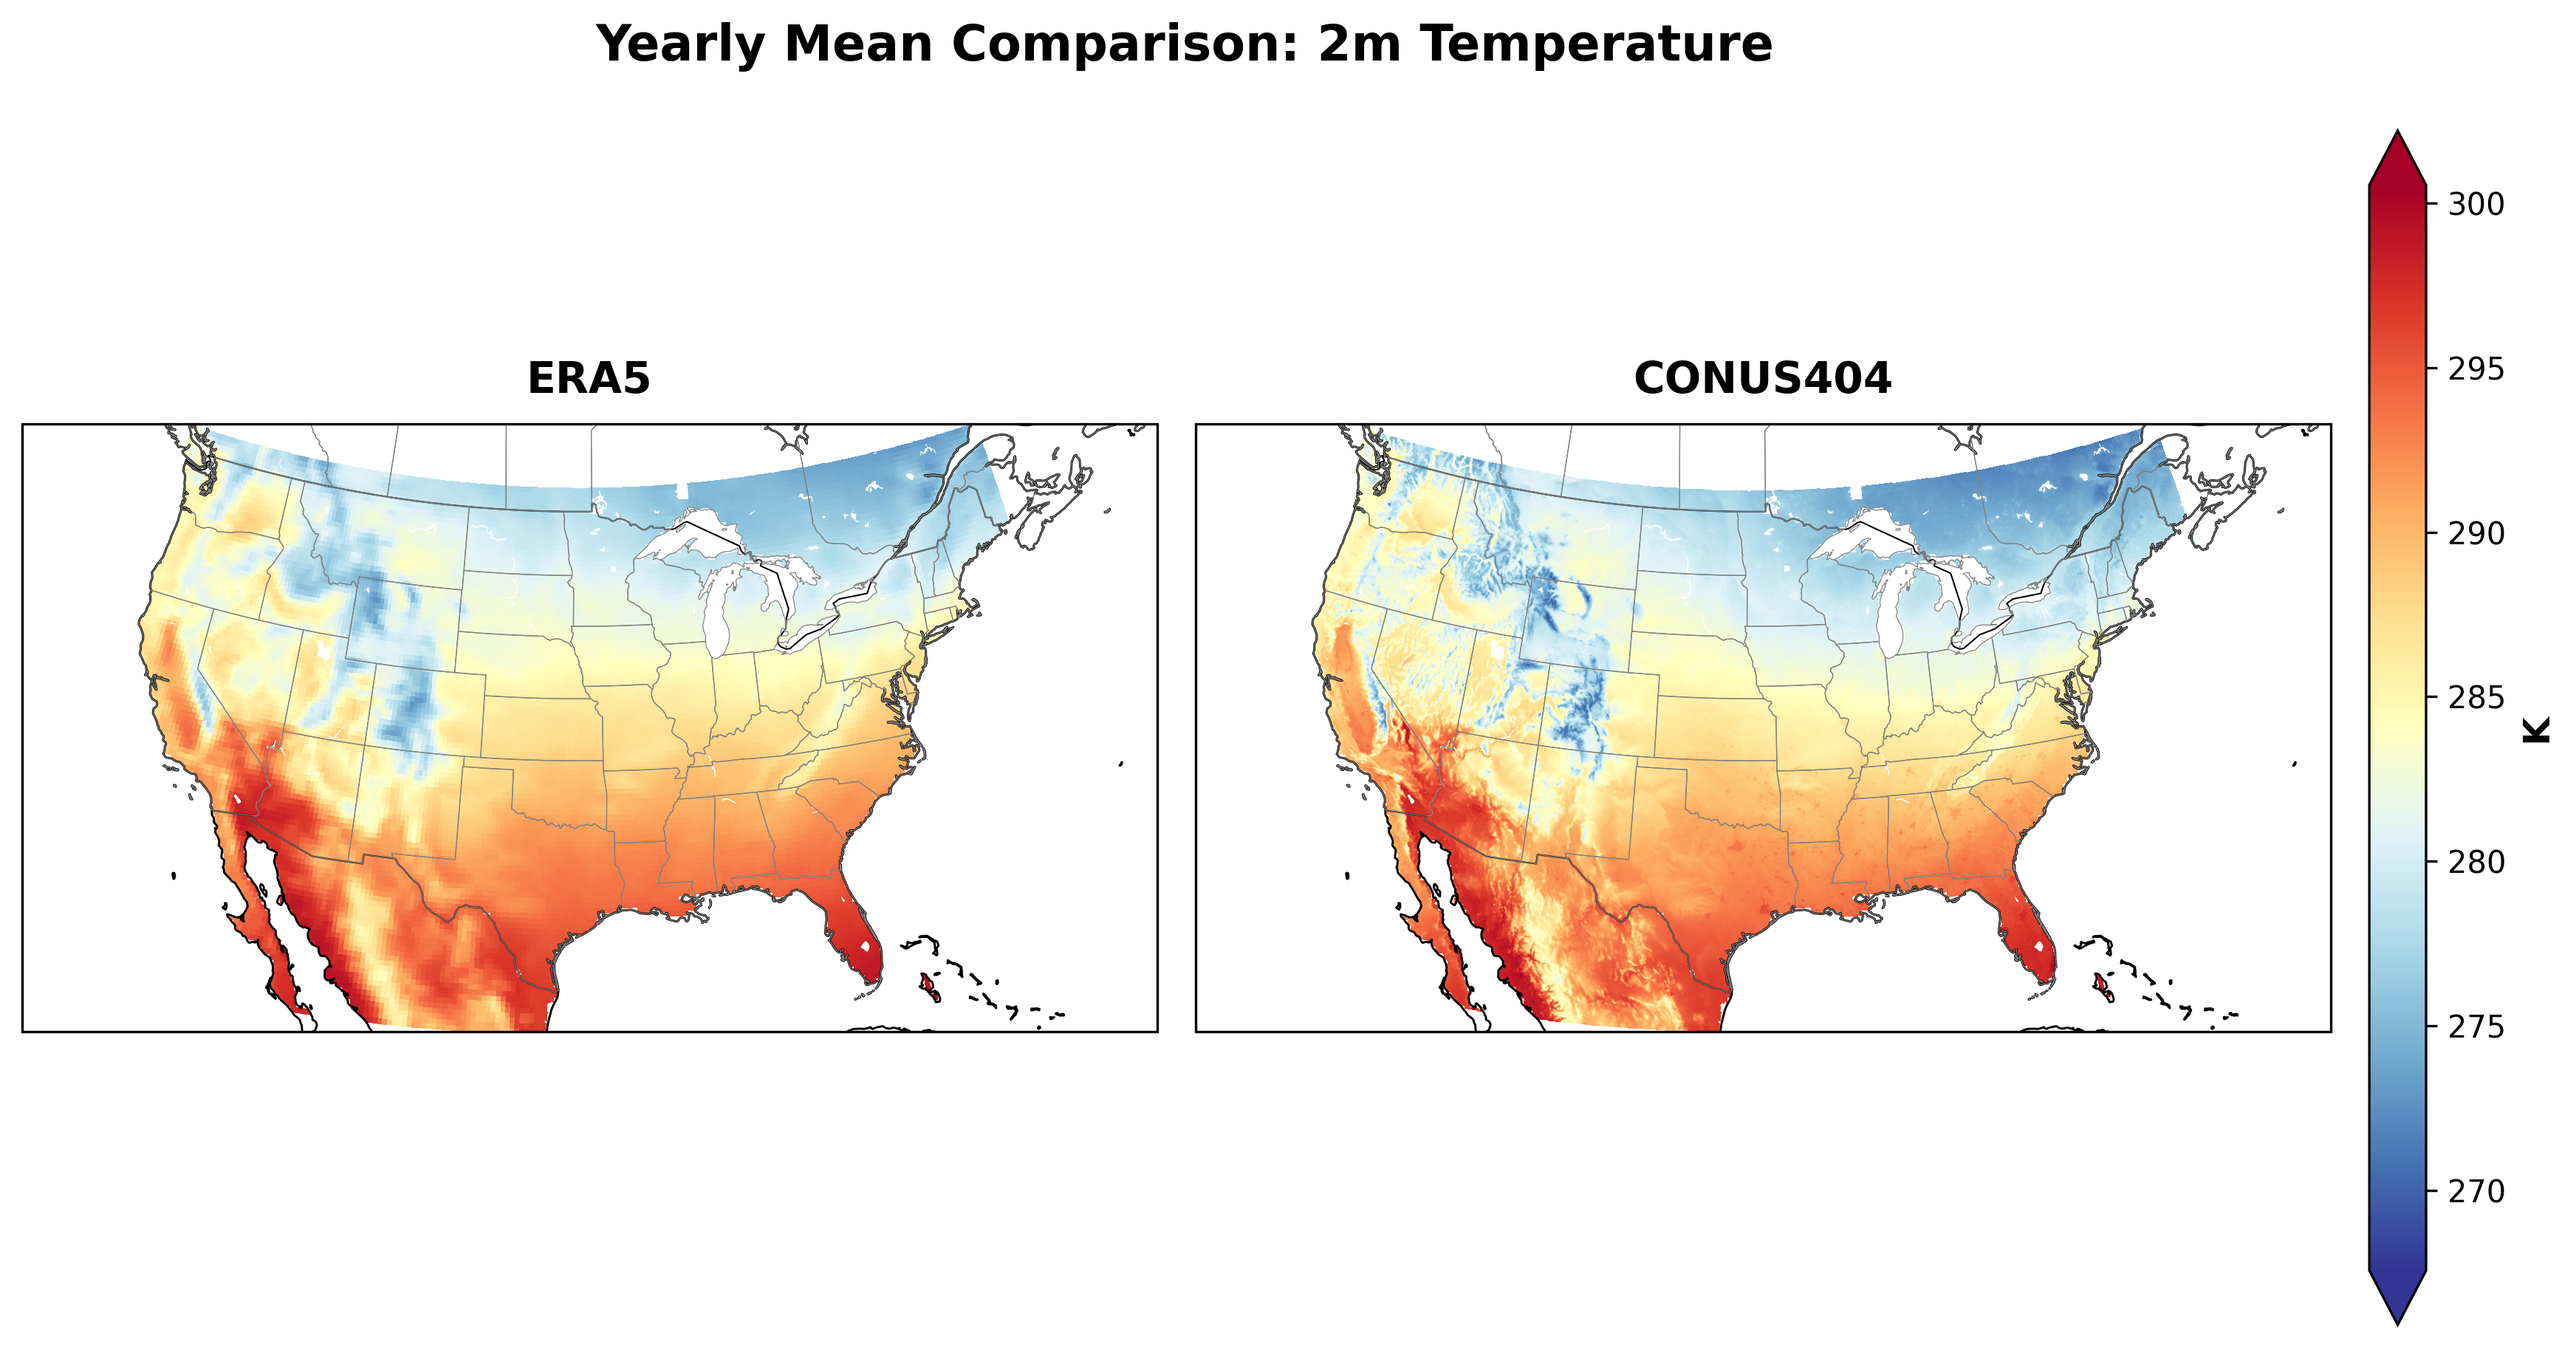
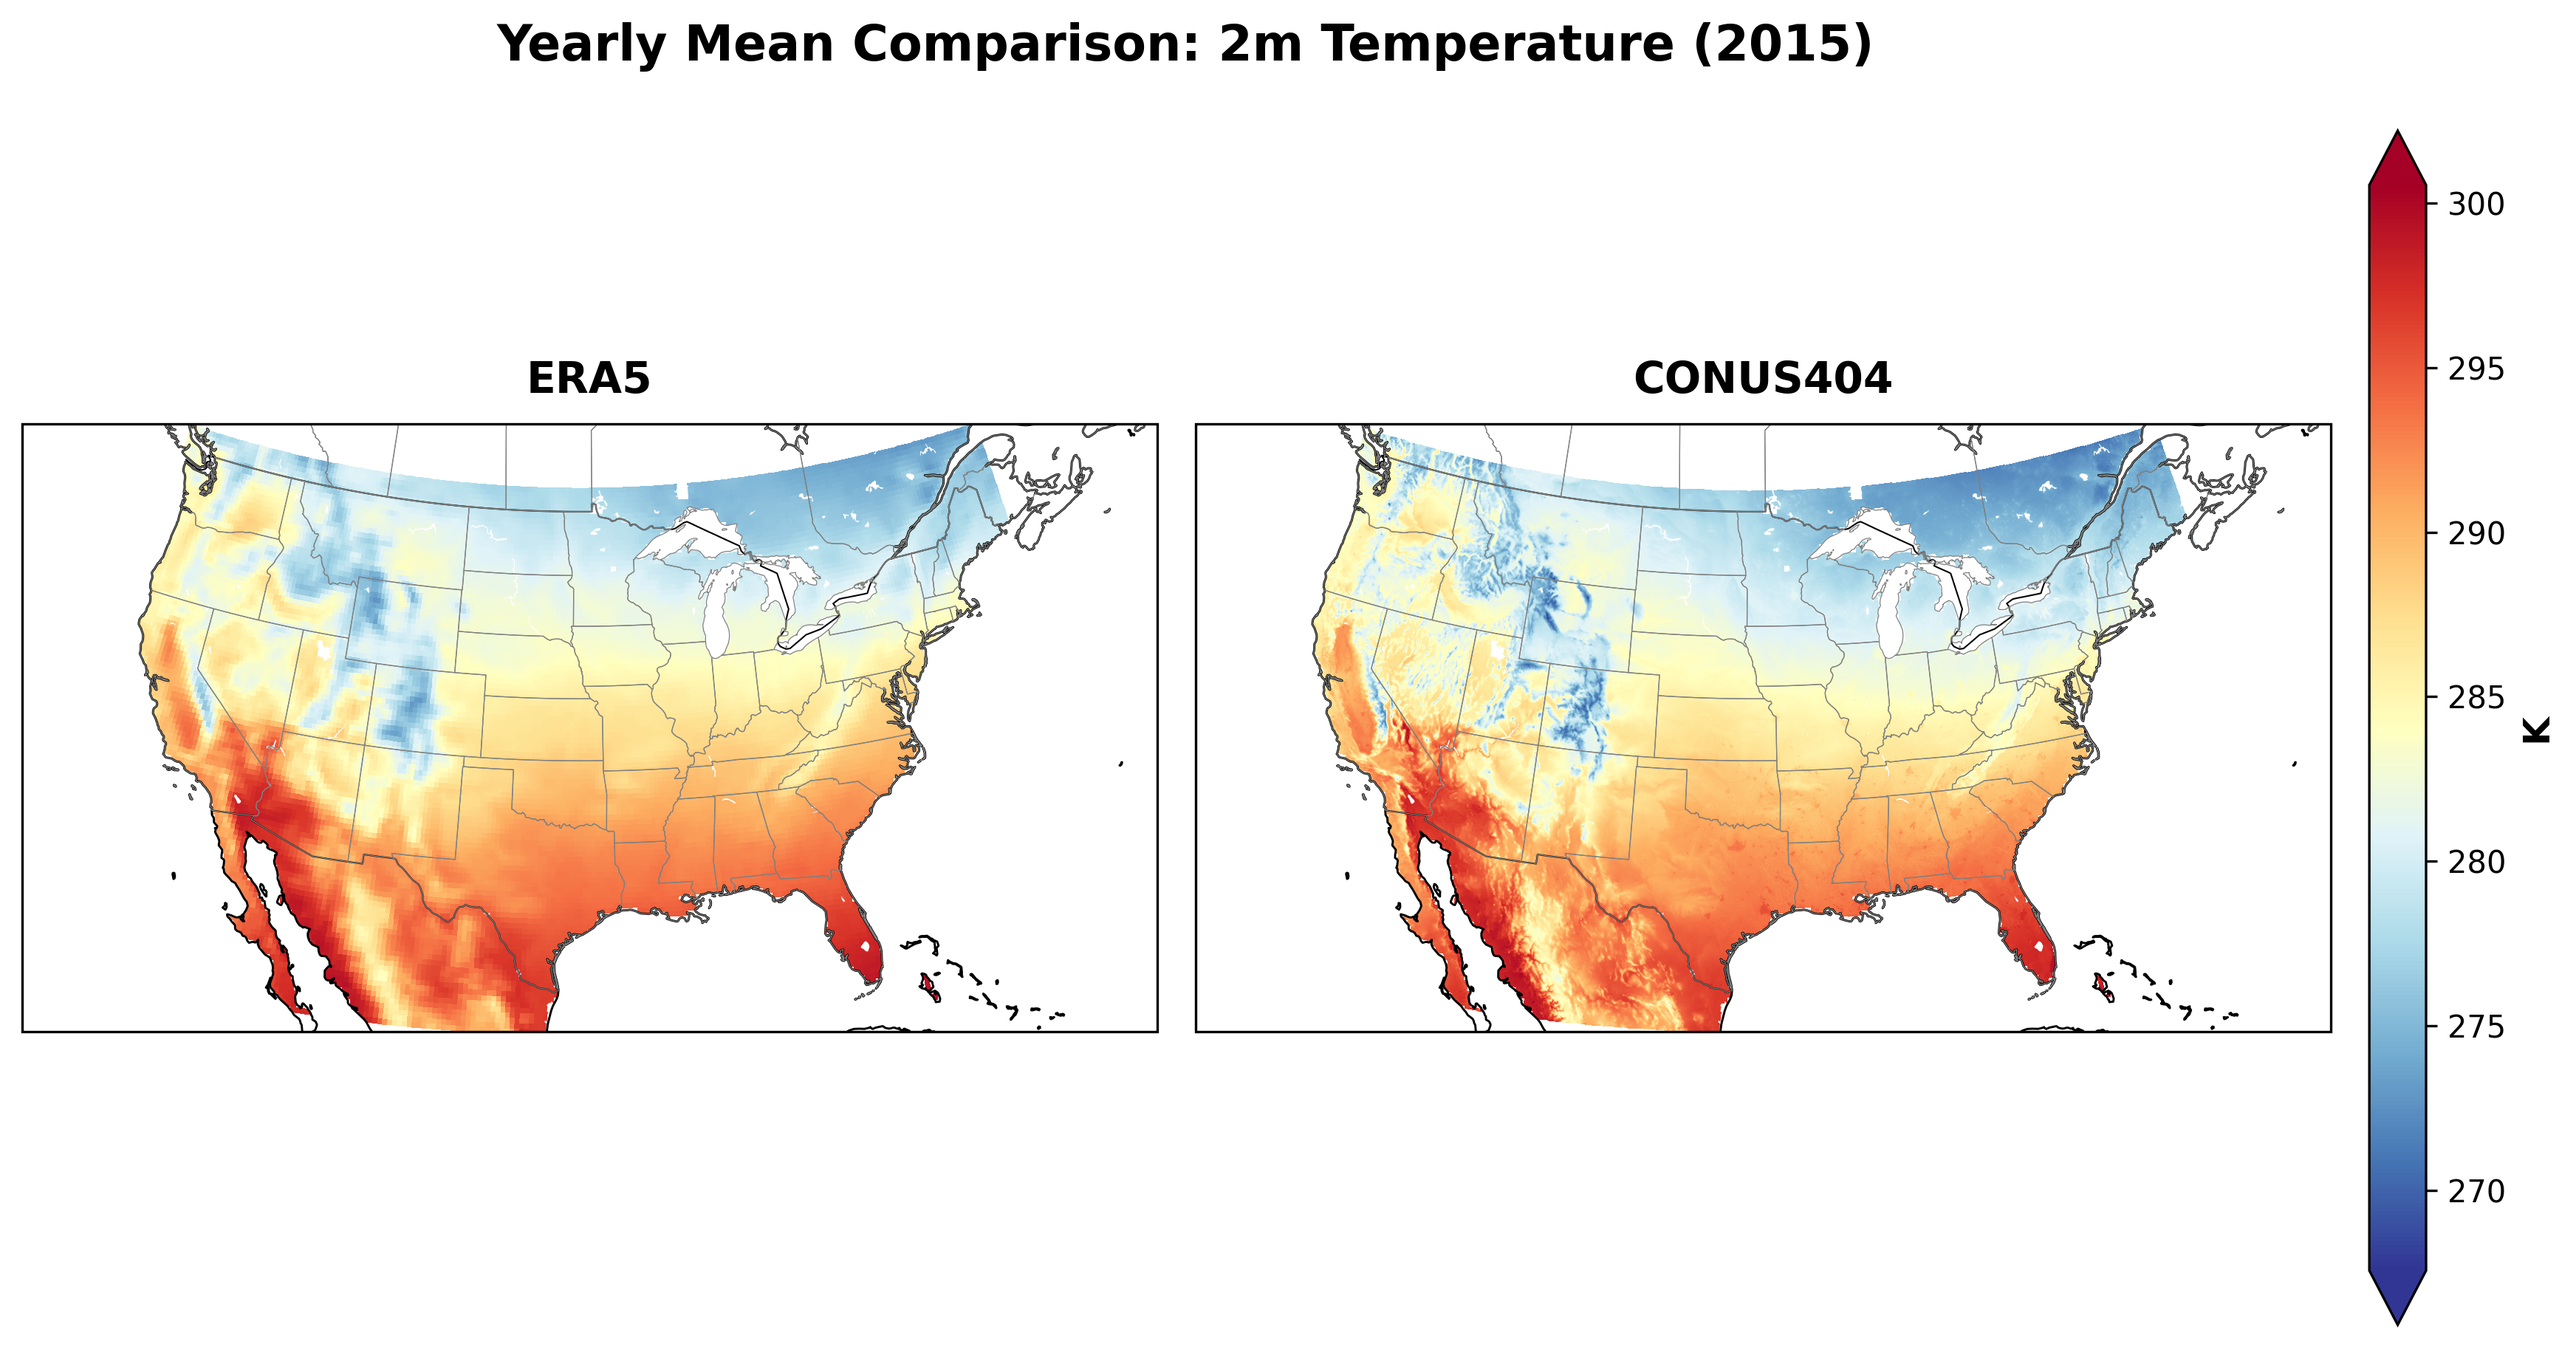
Add 2015 to plot titles for t2m ocean-masked plots
Updated analysis_script_ocean_masked.py to only process t2m for 2015,
and added year label to all 4 plot titles (heatmap, QQ, timeseries, boxplots).

Changed region(s): [[0.1875, 0.0, 0.7188, 0.0625]]

diff --git a/analysis_script_ocean_masked.py b/analysis_script_ocean_masked.py
@@ -33,17 +33,11 @@ logger = logging.getLogger(__name__)
 BASE_OUTPUT_DIR = 'plots'
 CONUS_BASE = "../../final_data/conus404_yearly_{year}.nc"
 ERA5_BASE = "../../../sduan/pipeline/data/processed/era5_{year}.nc"
-YEARS = range(1980, 2021)
+YEARS = [2015]
 
 # variable pairs: era5 (key) : conus404 (value)
 VARIABLE_PAIRS = {
     't2m': 'T2',
-    'd2m': 'TD2',
-    'sp': 'PSFC',
-    'u10': 'U10',
-    'v10': 'V10',
-    'lai': 'LAI',
-    'tp': 'PREC_ACC_NC',
 }
 
 # units for labeling
@@ -344,7 +338,7 @@ def compute_global_limits(era_seasonal_data, conus_seasonal_data):
 # plotting functions
 
 def plot_seasonal_boxplots(era_seasonal_data, conus_seasonal_data,
-                          era_var, output_path):
+                          era_var, output_path, year=None):
     logger.info(f"  generating seasonal box plots...")
 
     season_names = list(SEASONS.keys())
@@ -395,7 +389,8 @@ def plot_seasonal_boxplots(era_seasonal_data, conus_seasonal_data,
     ax.set_xticklabels(season_names, fontsize=12)
     ax.set_ylabel(f'{VARIABLE_NAMES.get(era_var, era_var)} ({VARIABLE_UNITS.get(era_var, "")})',
                   fontsize=13, fontweight='bold')
-    ax.set_title(f'Seasonal Comparison: {VARIABLE_NAMES.get(era_var, era_var)}',
+    year_str = f' ({year})' if year is not None else ''
+    ax.set_title(f'Seasonal Comparison: {VARIABLE_NAMES.get(era_var, era_var)}{year_str}',
                  fontsize=15, fontweight='bold', pad=15)
 
     ax.set_ylim(global_min - y_pad, global_max + y_pad)
@@ -410,7 +405,7 @@ def plot_seasonal_boxplots(era_seasonal_data, conus_seasonal_data,
     plt.close()
     logger.info(f"    saved: {output_path}")
 
-def plot_qq_plot(era_seasonal_data, conus_seasonal_data, era_var, output_path):
+def plot_qq_plot(era_seasonal_data, conus_seasonal_data, era_var, output_path, year=None):
     logger.info(f"  generating q-q plot...")
 
     era_all = []
@@ -456,7 +451,8 @@ def plot_qq_plot(era_seasonal_data, conus_seasonal_data, era_var, output_path):
                   fontsize=12, fontweight='bold')
     ax.set_ylabel(f'CONUS404 Quantiles ({VARIABLE_UNITS.get(era_var, "")})',
                   fontsize=12, fontweight='bold')
-    ax.set_title(f'Q-Q Plot: {VARIABLE_NAMES.get(era_var, era_var)}',
+    year_str = f' ({year})' if year is not None else ''
+    ax.set_title(f'Q-Q Plot: {VARIABLE_NAMES.get(era_var, era_var)}{year_str}',
                  fontsize=15, fontweight='bold', pad=15)
     ax.grid(True, alpha=0.3, linestyle='--')
     ax.legend(fontsize=11, loc='upper left', framealpha=0.9)
@@ -466,7 +462,7 @@ def plot_qq_plot(era_seasonal_data, conus_seasonal_data, era_var, output_path):
     plt.close()
     logger.info(f"    saved: {output_path}")
 
-def plot_yearly_timeseries(era_ds, conus_ds, era_var, conus_var, output_path):
+def plot_yearly_timeseries(era_ds, conus_ds, era_var, conus_var, output_path, year=None):
     logger.info(f"  generating yearly timeseries...")
 
     era_time_dim = 'valid_time' if 'valid_time' in era_ds else 'time'
@@ -511,7 +507,8 @@ def plot_yearly_timeseries(era_ds, conus_ds, era_var, conus_var, output_path):
     ax.set_xlabel('Date', fontsize=12, fontweight='bold')
     ax.set_ylabel(f'{VARIABLE_NAMES.get(era_var, era_var)} ({VARIABLE_UNITS.get(era_var, "")})',
                   fontsize=12, fontweight='bold')
-    ax.set_title(f'Yearly Time Series (Spatial Mean): {VARIABLE_NAMES.get(era_var, era_var)}',
+    year_str = f' ({year})' if year is not None else ''
+    ax.set_title(f'Yearly Time Series (Spatial Mean): {VARIABLE_NAMES.get(era_var, era_var)}{year_str}',
                  fontsize=15, fontweight='bold', pad=15)
     ax.grid(True, alpha=0.3, linestyle='--')
     ax.legend(loc='best', fontsize=12, framealpha=0.9)
@@ -525,7 +522,7 @@ def plot_yearly_timeseries(era_ds, conus_ds, era_var, conus_var, output_path):
     logger.info(f"    saved: {output_path}")
 
 def plot_side_by_side_heatmaps(era_yearly, conus_yearly, era_var, conus_var,
-                               era_ds, conus_ds, output_path):
+                               era_ds, conus_ds, output_path, year=None):
     logger.info(f"  generating side-by-side heatmaps...")
 
     lat_name, lon_name = get_coordinate_names(conus_ds)
@@ -581,7 +578,8 @@ def plot_side_by_side_heatmaps(era_yearly, conus_yearly, era_var, conus_var,
     cbar_right.set_label(f'{VARIABLE_UNITS.get(era_var, "")}',
                          fontsize=12, fontweight='bold')
 
-    fig.suptitle(f'Yearly Mean Comparison: {VARIABLE_NAMES.get(era_var, era_var)}',
+    year_str = f' ({year})' if year is not None else ''
+    fig.suptitle(f'Yearly Mean Comparison: {VARIABLE_NAMES.get(era_var, era_var)}{year_str}',
                  fontsize=16, fontweight='bold', y=0.95)
 
     plt.savefig(output_path, dpi=300, bbox_inches='tight')
@@ -590,7 +588,7 @@ def plot_side_by_side_heatmaps(era_yearly, conus_yearly, era_var, conus_var,
 
 # main processing
 
-def process_variable(era_ds, conus_ds, era_var, conus_var, output_dir):
+def process_variable(era_ds, conus_ds, era_var, conus_var, output_dir, year=None):
     logger.info(f"processing: {VARIABLE_NAMES.get(era_var, era_var)} ({era_var} vs {conus_var})")
 
     # check if variables exist in datasets
@@ -615,23 +613,27 @@ def process_variable(era_ds, conus_ds, era_var, conus_var, output_dir):
 
         plot_seasonal_boxplots(
             era_seasonal_data, conus_seasonal_data, era_var,
-            os.path.join(var_dir, f'{era_var}_seasonal_boxplots.png')
+            os.path.join(var_dir, f'{era_var}_seasonal_boxplots.png'),
+            year=year
         )
 
         plot_qq_plot(
             era_seasonal_data, conus_seasonal_data, era_var,
-            os.path.join(var_dir, f'{era_var}_qq_plot.png')
+            os.path.join(var_dir, f'{era_var}_qq_plot.png'),
+            year=year
         )
 
         plot_yearly_timeseries(
             era_ds, conus_ds, era_var, conus_var,
-            os.path.join(var_dir, f'{era_var}_yearly_timeseries.png')
+            os.path.join(var_dir, f'{era_var}_yearly_timeseries.png'),
+            year=year
         )
 
         plot_side_by_side_heatmaps(
             era_yearly, conus_yearly, era_var, conus_var,
             era_ds, conus_ds,
-            os.path.join(var_dir, f'{era_var}_heatmap_comparison.png')
+            os.path.join(var_dir, f'{era_var}_heatmap_comparison.png'),
+            year=year
         )
 
         logger.info(f"completed processing for {era_var}")
@@ -666,7 +668,7 @@ def process_year(year):
 
     for era_var, conus_var in VARIABLE_PAIRS.items():
         try:
-            process_variable(era_ds, conus_ds, era_var, conus_var, year_output_dir)
+            process_variable(era_ds, conus_ds, era_var, conus_var, year_output_dir, year=year)
         except Exception as e:
             logger.error(f"failed to process {era_var} for year {year}: {str(e)}")
 
